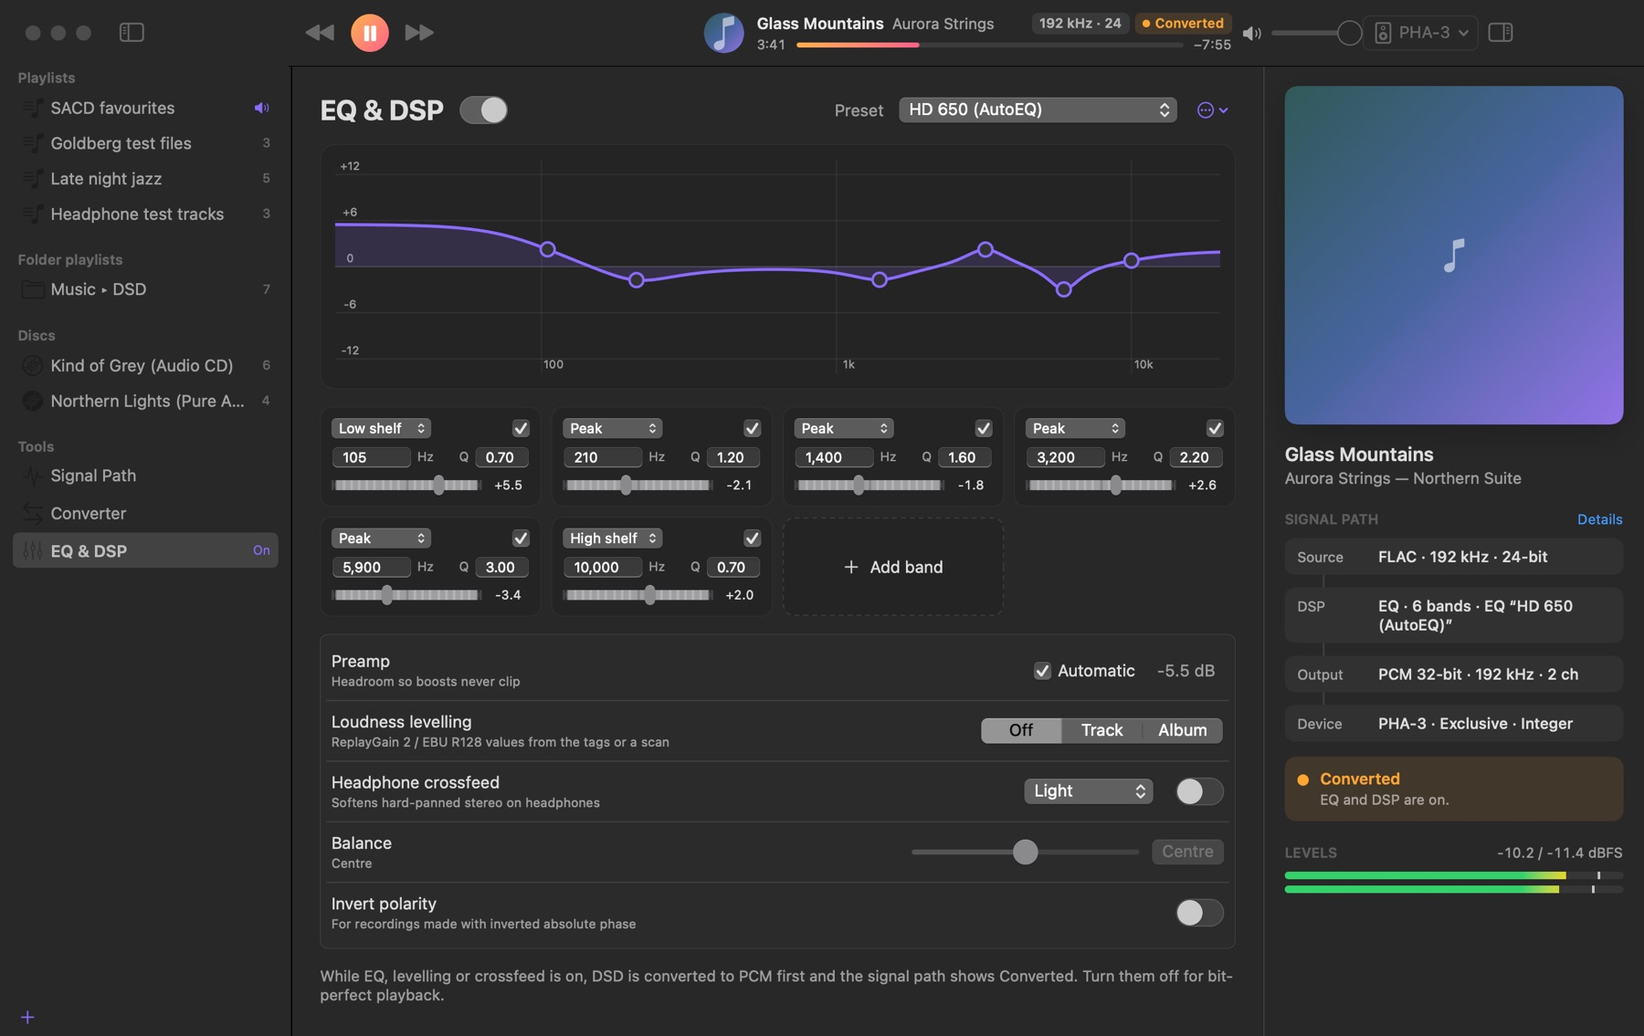
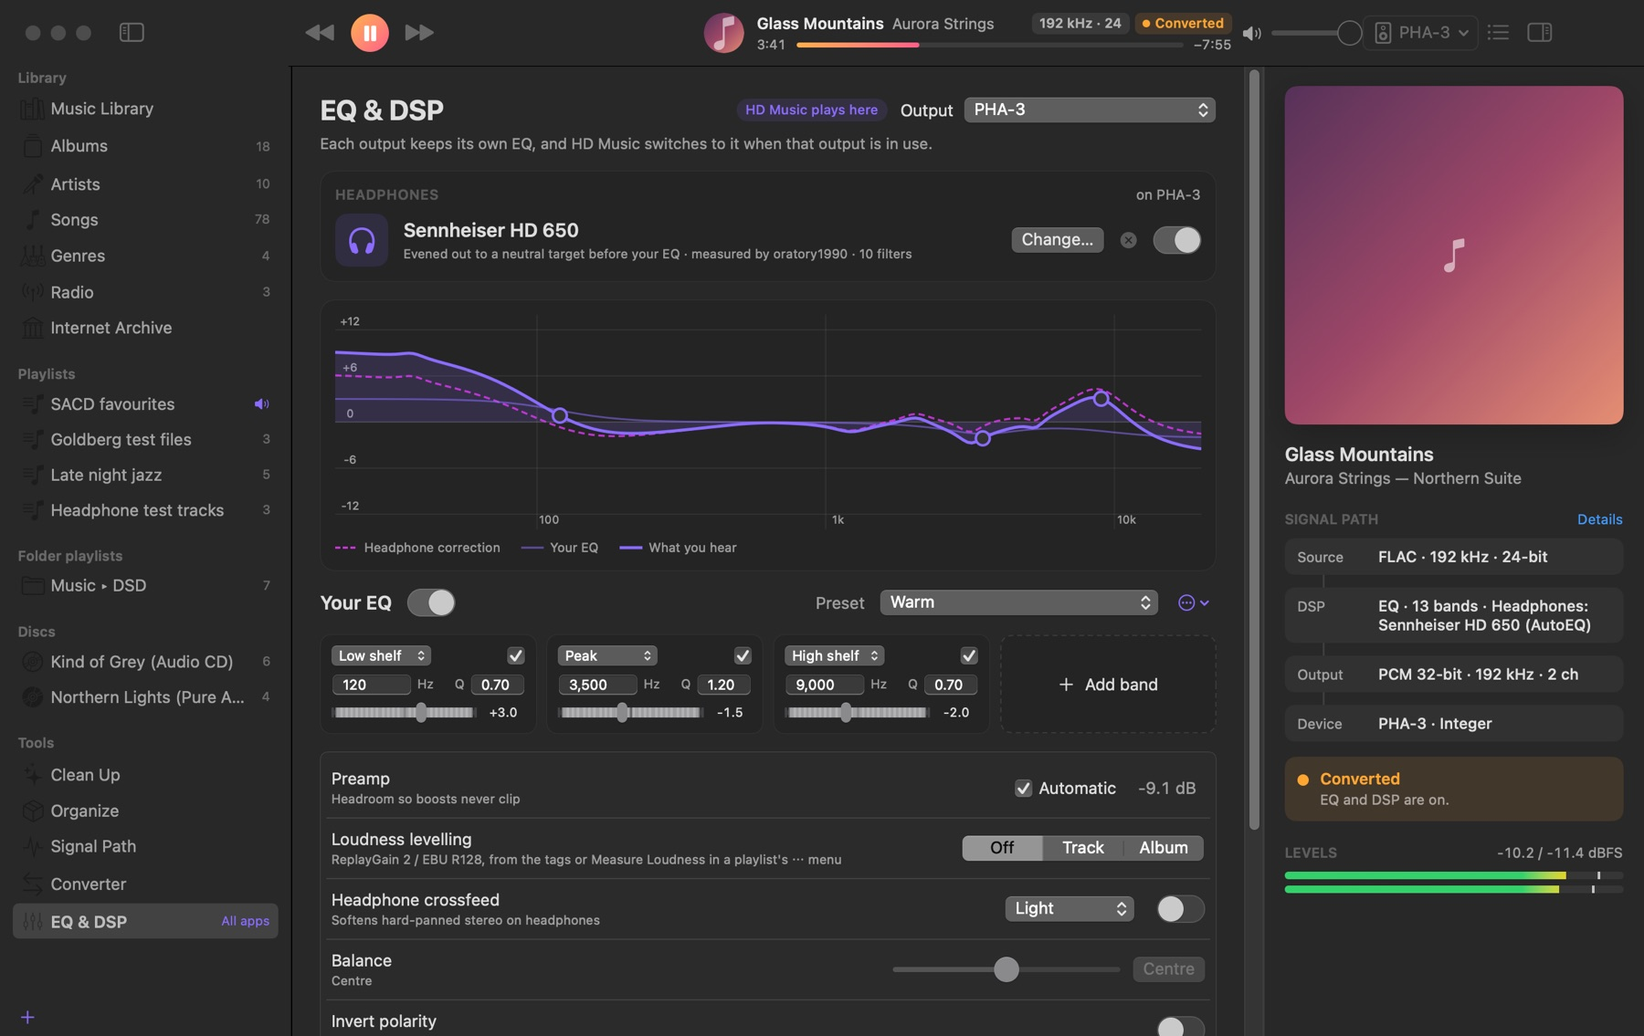
Publish HD Music 1.9.0

diff --git a/apps/hdmusic/readme.html b/apps/hdmusic/readme.html
@@ -112,7 +112,7 @@ ol.rm .n{flex:none;width:24px;height:24px;border-radius:12px;display:grid;place-
 <main class="page readme">
   <div class="rmtop"><a class="back" href="./">&#8249; HD Music</a><a href="../../readme/hdmusic.txt">Plain text</a></div>
   <header class="rmhead"><img class="icon" src="../../icons/hdmusic.png" alt="" width="64" height="64">
-    <div><h1>Read Me</h1><p>HD Music 1.8.2 · how to install and use it</p></div>
+    <div><h1>Read Me</h1><p>HD Music 1.9.0 · how to install and use it</p></div>
   </header>
   <p class="lead">HD Music is a music player for DSD and hi-res audio. It plays DSF, DFF (including DST-compressed), SACD ISO images, Blu-ray audio, audio CDs and every common PCM format, and shows you exactly what reaches your DAC. It keeps a library of your music wherever it is (Mac, external drives, a NAS), and can tidy a whole collection into a new home.</p>
 <h2>What's in this folder</h2>
@@ -125,7 +125,7 @@ ol.rm .n{flex:none;width:24px;height:24px;border-radius:12px;display:grid;place-
 <h2>Using HD Music</h2>
 <ul class="rm"><li><b>Library:</b> Albums, Artists, Songs and Genres at the top of the sidebar (⌘1 to ⌘4). Add the folders, drives or network shares that hold your music (File ▸ Add Music Folder…, or Settings ▸ Library). HD Music reads them once, then only what changes. Albums on a drive that's unplugged stay listed, greyed out, until you connect it again. <b>Connect to Server…</b> finds a NAS or another Mac on your network; macOS asks for the password and keeps it in your Keychain.</li><li><b>Radio (⌘5):</b> thousands of stations on a world map. Click a place to hear what's on there, or search by name, country or genre. Star the ones you like. Radio plays through HD Music's own output, so your DAC, EQ and Signal Path all apply, and the song title shows when the station sends it. Stations come from the free Radio Browser directory.</li><li><b>Internet Archive (⌘6):</b> search the Archive's free music, from the Live Music Archive's concerts to 78 rpm records and netlabels. Play any item straight away: it downloads as it plays, through your DAC, EQ and Signal Path. Star items as favourites; Recently Played keeps the rest. <b>Save to Library</b> keeps a tagged, lossless copy with its notes in Music ▸ HD Music Archive (or a folder you choose in Settings ▸ Library). If your connection is slow, Settings ▸ Library ▸ Internet Archive playback can play the Archive's smaller MP3s instead; Automatic picks whichever your downloads keep up with.</li><li><b>Remove from Library:</b> right-click an album, artist, song or genre ▸ Remove from Library… It disappears from the library but its files stay exactly where they are. Settings ▸ Library ▸ Removed Items brings any of it back.</li><li><b>Clean Up (sidebar ▸ Tools):</b> tidies folders where they are. Like Organize, it identifies albums (MusicBrainz) and you review them; then it fixes the tags, renames the files and sorts them into tidy folders inside the folder you chose, and removes folders left empty. Every change is recorded first, so <b>Undo Clean Up</b> puts everything back. You can also have it copy the cleaned-up music to a NAS or another drive afterwards.</li><li><b>Play Next and Add to Queue:</b> right-click any album or song. The list button at the top right shows what's coming up.</li><li><b>Get Info (right-click ▸ Get Info…):</b> edit the tags of one track or many at once, including the cover (drop an image on it). Changes are saved into the files themselves (MP3, FLAC, DSF, DFF, AIFF, WAV, M4A, WavPack, APE); only the tags change, never the audio.</li><li><b>Organize (sidebar ▸ Tools):</b> tidies a whole collection into a new place, such as a NAS or a new drive, leaving the originals untouched.</li></ul>
 <ol class="rm"><li><span class="n">1</span><div><p>Sources: the folders and drives your music is on now, and where it should go, and how files should be named.</p></div></li><li><span class="n">2</span><div><p>Review: HD Music groups files into albums, fills gaps from file and folder names, and identifies albums on MusicBrainz (about two seconds an album; it carries on after a quit). Check the ones marked <b>Needs a look</b>; duplicates in lower quality are left out.</p></div></li><li><span class="n">3</span><div><p>Copy: every file is copied, checked against its original, renamed, and given its fixed tags. Covers, booklets and rip logs come along, and a report lists everything. Your original files are never changed.</p></div></li></ol>
-<ul class="rm"><li><b>Mini Player (Window ▸ Mini Player, ⌥⌘M):</b> a small window that stays on top. Controls in the menu bar: Window ▸ Controls in Menu Bar.</li><li><b>Playlists:</b> drag music files or folders onto a playlist (left sidebar). + at the bottom of the sidebar makes a new playlist, or a folder playlist that follows a folder on your disk and updates by itself. Double-click a track to play it. Right-click for Play Next, Get Info, Show in Finder, Convert and Remove. CUE sheets split single-file albums into tracks. File ▸ Add Files… (⌘O) works too.</li><li><b>Discs:</b> an audio CD in a USB drive appears under Discs with its track names and cover (looked up on MusicBrainz; you can turn that off in Settings ▸ General). SACD ISO images and Blu-ray folders or ISOs open like files. Copy-protected Blu-ray discs can't be played: HD Music never breaks copy protection.</li><li><b>Output:</b> choose your DAC from the menu at the top right. Settings ▸ Output (⌘,) has the options for each device. DSD playback: DoP sends DSD to the DAC untouched; Convert to PCM is for speakers, headphones and AirPods. You can also set exclusive access, the sample rate, volume, and how 5.1/7.1 is played (stereo downmix, headphones binaural, or one channel per speaker). Exclusive access is off, so your Mac's own sound stays on the DAC. Turn it on to keep other apps' sound out; macOS then moves its own sound to another output while HD Music plays.</li><li><b>DSD and volume:</b> DSD reaches the DAC untouched only while the Mac's volume for the DAC is at full. Turn it all the way up and use the DAC's own knob for pure DSD. If you turn the Mac's volume down, HD Music switches to a high-quality PCM conversion so the volume keys still work, and goes back to pure DSD at full volume.</li><li><b>Adding music:</b> click Music Library at the top of the sidebar, then drop folders or music files on it (or on Albums, Artists, Songs or Genres), or use Add Folder… and Add Files…. Folders stay where they are and are watched for changes. Loose files are copied into your Music folder, in <b>HD Music</b>.</li><li><b>Check your DAC:</b> Settings ▸ Output ▸ <b>Check This DAC…</b> plays a quiet tone at every sample rate, then a DSD tone over DoP at each DSD rate and asks what you heard. HD Music then knows exactly what your DAC takes. Turn the volume down first.</li><li><b>Speakers:</b> Settings ▸ Output has a test tone for each speaker. For a 5.1/7.1 receiver you can also choose which output each speaker is on.</li><li><b>Signal Path (sidebar ▸ Tools, or ⌥⌘1):</b> shows every step from the file to your DAC and tells you whether it's Bit-perfect, DSD untouched (DoP), or Converted, and why. With a level meter and spectrum.</li><li><b>EQ &amp; DSP (⌥⌘3):</b> a parametric EQ with presets (import AutoEQ files for your headphones), loudness levelling (ReplayGain), headphone crossfeed, balance. Turn it off for bit-perfect playback. To level files that have no ReplayGain tags, use a playlist's ⋯ menu ▸ Measure Loudness.</li><li><b>Converter (⌥⌘2):</b> DSD to FLAC, ALAC or WAV; SACD ISO or DST to plain DSF; PCM to another rate or format. Drop files on it, or right-click tracks ▸ Convert. CD tracks are read twice and compared, and a <b>Rip log.txt</b> says whether every track verified.</li><li><b>Watchdog:</b> if another app changes your DAC's sample rate while you listen, HD Music tells you and puts it back.</li><li><b>Keys:</b> Space plays and pauses, ⌘← and ⌘→ skip, ⌥⌘← and ⌥⌘→ jump 10 seconds. Media keys and Now Playing work too.</li><li><b>Online:</b> HD Music goes online only to look up audio CDs, to identify albums and fetch covers in Organize (MusicBrainz and the Cover Art Archive), for Radio (the Radio Browser directory and the stations themselves), and for the Internet Archive section (archive.org). The first time you connect to a server, macOS asks whether HD Music may look for devices on your local network.</li></ul>
+<ul class="rm"><li><b>Mini Player (Window ▸ Mini Player, ⌥⌘M):</b> a small window that stays on top. Controls in the menu bar: Window ▸ Controls in Menu Bar.</li><li><b>Playlists:</b> drag music files or folders onto a playlist (left sidebar). + at the bottom of the sidebar makes a new playlist, or a folder playlist that follows a folder on your disk and updates by itself. Double-click a track to play it. Right-click for Play Next, Get Info, Show in Finder, Convert and Remove. CUE sheets split single-file albums into tracks. File ▸ Add Files… (⌘O) works too.</li><li><b>Discs:</b> an audio CD in a USB drive appears under Discs with its track names and cover (looked up on MusicBrainz; you can turn that off in Settings ▸ General). SACD ISO images and Blu-ray folders or ISOs open like files. Copy-protected Blu-ray discs can't be played: HD Music never breaks copy protection.</li><li><b>Output:</b> choose your DAC from the menu at the top right. Settings ▸ Output (⌘,) has the options for each device. DSD playback: DoP sends DSD to the DAC untouched; Convert to PCM is for speakers, headphones and AirPods. You can also set exclusive access, the sample rate, volume, and how 5.1/7.1 is played (stereo downmix, headphones binaural, or one channel per speaker). Exclusive access is off, so your Mac's own sound stays on the DAC. Turn it on to keep other apps' sound out; macOS then moves its own sound to another output while HD Music plays.</li><li><b>DSD and volume:</b> DSD reaches the DAC untouched only while the Mac's volume for the DAC is at full. Turn it all the way up and use the DAC's own knob for pure DSD. If you turn the Mac's volume down, HD Music switches to a high-quality PCM conversion so the volume keys still work, and goes back to pure DSD at full volume.</li><li><b>Adding music:</b> click Music Library at the top of the sidebar, then drop folders or music files on it (or on Albums, Artists, Songs or Genres), or use Add Folder… and Add Files…. Folders stay where they are and are watched for changes. Loose files are copied into your Music folder, in <b>HD Music</b>.</li><li><b>Check your DAC:</b> Settings ▸ Output ▸ <b>Check This DAC…</b> plays a quiet tone at every sample rate, then a DSD tone over DoP at each DSD rate and asks what you heard. HD Music then knows exactly what your DAC takes. Turn the volume down first.</li><li><b>Speakers:</b> Settings ▸ Output has a test tone for each speaker. For a 5.1/7.1 receiver you can also choose which output each speaker is on.</li><li><b>Signal Path (sidebar ▸ Tools, or ⌥⌘1):</b> shows every step from the file to your DAC and tells you whether it's Bit-perfect, DSD untouched (DoP), or Converted, and why. With a level meter and spectrum.</li><li><b>EQ &amp; DSP (⌥⌘3):</b> pick your headphones (Choose Headphones…) and HD Music evens out their sound, using AutoEQ's measurements of thousands of headphones. Your own parametric EQ and presets go on top. Each output (your DAC, the Mac's speakers, AirPods…) keeps its own EQ. Also loudness levelling (ReplayGain), headphone crossfeed, balance. Turn it all off for bit-perfect playback. To level files that have no ReplayGain tags, use a playlist's ⋯ menu ▸ Measure Loudness.</li><li>EQ for all Mac sound (EQ &amp; DSP ▸ Every app, or the menu-bar controls): while HD Music is open, Spotify, YouTube, Apple Music and every other app go through the EQ of the output they play on. Needs macOS 14.2 or later. macOS asks once whether HD Music may hear other apps; say Allow. After each HD Music update macOS asks again.</li><li><b>Converter (⌥⌘2):</b> DSD to FLAC, ALAC or WAV; SACD ISO or DST to plain DSF; PCM to another rate or format. Drop files on it, or right-click tracks ▸ Convert. CD tracks are read twice and compared, and a <b>Rip log.txt</b> says whether every track verified.</li><li><b>Watchdog:</b> if another app changes your DAC's sample rate while you listen, HD Music tells you and puts it back.</li><li><b>Keys:</b> Space plays and pauses, ⌘← and ⌘→ skip, ⌥⌘← and ⌥⌘→ jump 10 seconds. Media keys and Now Playing work too.</li><li><b>Online:</b> HD Music goes online only to look up audio CDs, to identify albums and fetch covers in Organize (MusicBrainz and the Cover Art Archive), for Radio (the Radio Browser directory and the stations themselves), and for the Internet Archive section (archive.org). The first time you connect to a server, macOS asks whether HD Music may look for devices on your local network.</li></ul>
 <h2>Good to know</h2>
 <ul class="rm"><li><b>For a Sony PHA-3 or another USB DAC:</b> set DSD playback to DoP. DSD64 and DSD128 then reach the DAC untouched. Higher rates are converted to the best PCM rate the DAC takes.</li><li>Dolby Atmos and DTS:X play their full lossless 7.1 bed. Rendering the height objects needs Dolby's and DTS's own software, which isn't available to open-source players.</li><li><b>To update:</b> unzip a newer copy and run its installer. It replaces the old one and keeps your settings and playlists.</li><li><b>To uninstall:</b> quit HD Music and drag it from Applications to the Trash. Your playlists and library catalogue are in ~/Library/Application Support/HD Music.</li><li>HD Music is free and open source (MIT). It includes FFmpeg, libbluray and dsd-nexus under the LGPL; their licences and source are inside the app (Contents/Resources/Licenses). It is an open-source alternative to Sony's Hi-Res Audio Player and is not affiliated with Sony. It isn't from the App Store and isn't notarized by Apple, which is why macOS asks you to confirm it the first time.</li></ul>
 

diff --git a/apps/hdmusic/index.html b/apps/hdmusic/index.html
@@ -4,9 +4,9 @@
 <meta charset="utf-8">
 <meta name="viewport" content="width=device-width, initial-scale=1">
 <title>HD Music · ExplAIn Sims · Mac apps</title>
-<meta name="description" content="Plays DSF, DFF, SACD ISOs, Blu-ray audio and hi-res files bit-perfect, with a signal path, EQ and converter, a library for local drives and NAS shares, internet radio and the Internet Archive.">
+<meta name="description" content="Plays DSF, DFF, SACD ISOs, Blu-ray audio and hi-res files bit-perfect, with a signal path and converter, an EQ that corrects your headphones (from AutoEQ's measurements) and can work on every app's sound, a library for local drives and NAS shares, internet radio and the Internet Archive.">
 <meta property="og:title" content="HD Music · ExplAIn Sims · Mac apps">
-<meta property="og:description" content="Plays DSF, DFF, SACD ISOs, Blu-ray audio and hi-res files bit-perfect, with a signal path, EQ and converter, a library for local drives and NAS shares, internet radio and the Internet Archive.">
+<meta property="og:description" content="Plays DSF, DFF, SACD ISOs, Blu-ray audio and hi-res files bit-perfect, with a signal path and converter, an EQ that corrects your headphones (from AutoEQ's measurements) and can work on every app's sound, a library for local drives and NAS shares, internet radio and the Internet Archive.">
 <meta property="og:url" content="https://store.explainsims.com/apps/hdmusic/">
 <meta property="og:type" content="website">
 <meta property="og:image" content="https://store.explainsims.com/shots/hdmusic/1-light.jpg">
@@ -113,17 +113,17 @@ ol.rm .n{flex:none;width:24px;height:24px;border-radius:12px;display:grid;place-
   <a class="back" href="../../#apps">&#8249; All apps</a>
   <header class="apphead"><img class="icon" src="../../icons/hdmusic.png" alt="" width="128" height="128">
     <div><h1>HD Music</h1>
-    <p class="sum">Plays DSF, DFF, SACD ISOs, Blu-ray audio and hi-res files bit-perfect, with a signal path, EQ and converter, a library for local drives and NAS shares, internet radio and the Internet Archive.</p>
+    <p class="sum">Plays DSF, DFF, SACD ISOs, Blu-ray audio and hi-res files bit-perfect, with a signal path and converter, an EQ that corrects your headphones (from AutoEQ's measurements) and can work on every app's sound, a library for local drives and NAS shares, internet radio and the Internet Archive.</p>
     <p class="alt">An alternative to Sony's Hi-Res Audio Player.</p>
-    <div class="acts"><a class="btn primary big" href="https://github.com/explainsims/store/releases/download/hdmusic-1.8.2/HD-Music-1.8.2.zip">Download</a><small>1.8.2 · 26.4 MB · free</small><a href="#feedback"><svg width="14" height="14" viewBox="0 0 15 15" fill="none" stroke="currentColor" stroke-width="1.4" stroke-linejoin="round" aria-hidden="true"><path d="M2.2 3.6c0-.9.7-1.6 1.6-1.6h7.4c.9 0 1.6.7 1.6 1.6v5.2c0 .9-.7 1.6-1.6 1.6H6.4L3.6 12.8v-2.4c-.8 0-1.4-.7-1.4-1.6z"/></svg>Send Feedback</a></div>
+    <div class="acts"><a class="btn primary big" href="https://github.com/explainsims/store/releases/download/hdmusic-1.9.0/HD-Music-1.9.0.zip">Download</a><small>1.9.0 · 26.8 MB · free</small><a href="#feedback"><svg width="14" height="14" viewBox="0 0 15 15" fill="none" stroke="currentColor" stroke-width="1.4" stroke-linejoin="round" aria-hidden="true"><path d="M2.2 3.6c0-.9.7-1.6 1.6-1.6h7.4c.9 0 1.6.7 1.6 1.6v5.2c0 .9-.7 1.6-1.6 1.6H6.4L3.6 12.8v-2.4c-.8 0-1.4-.7-1.4-1.6z"/></svg>Send Feedback</a></div>
     <p class="tip">Or get <a href="../../apps/storefront/">Storefront</a>: it installs HD Music in one click, skips the Open Anyway step, and keeps it up to date.</p></div>
   </header>
   <section class="facts" aria-label="Facts">
-    <div><small>Version</small><b>1.8.2</b><i>latest</i></div>
-    <div><small>Size</small><b>26.4 MB</b><i>download</i></div>
+    <div><small>Version</small><b>1.9.0</b><i>latest</i></div>
+    <div><small>Size</small><b>26.8 MB</b><i>download</i></div>
     <div><small>Needs</small><b>macOS 14</b><i>or later</i></div>
     <div><small>Chip</small><b>Any Mac</b><i>Apple silicon and Intel</i></div>
-    <div><small>Updated</small><b>9 Nov</b><i>2026</i></div>
+    <div><small>Updated</small><b>11 Nov</b><i>2026</i></div>
   </section>
   <section class="shots">
   <div class="sh"><h2>Screenshots</h2><div class="seg" role="group" aria-label="Appearance"><button type="button" data-mode="light" aria-pressed="true">Light</button><button type="button" data-mode="dark" aria-pressed="false">Dark</button></div></div>
@@ -131,7 +131,7 @@ ol.rm .n{flex:none;width:24px;height:24px;border-radius:12px;display:grid;place-
 </section>
 <dialog class="lightbox" aria-label="Screenshot"><img alt=""><button type="button" class="lb prev" aria-label="Previous">&#8249;</button><button type="button" class="lb next" aria-label="Next">&#8250;</button><button type="button" class="lb x" aria-label="Close">&times;</button></dialog>
   <section class="cols">
-    <div><h2>What's new in 1.8.2</h2><ul><li>Check for Updates… in the HD Music menu. From now on HD Music updates itself, checking once a day.</li></ul></div>
+    <div><h2>What's new in 1.9.0</h2><p class="alt">Released 11 November 2026.</p></div>
     <div><h2>Good to know</h2><dl class="kv"><dt>Internet</dt><dd>Only for radio, MusicBrainz and the Internet Archive</dd><dt>Licence</dt><dd>MIT, with LGPL libraries (FFmpeg, libbluray, dsd-nexus) · <a href="https://github.com/explainsims/store/releases/download/hdmusic-library-sources/HD-Music-library-sources.tar.gz">Library sources</a></dd><dt>Read Me</dt><dd><a href="readme.html">How to use HD Music</a></dd><dt>First open</dt><dd>macOS asks you to allow it once, under System Settings › Privacy &amp; Security › Open Anyway. Apps installed through Storefront skip that.</dd></dl></div>
   </section>
   <section class="fbcard" id="feedback"><div class="fbtop"><h2>Send feedback about HD Music</h2><span class="priv"><svg width="12" height="12" viewBox="0 0 12 12" fill="none" stroke="currentColor" stroke-width="1.5" aria-hidden="true"><rect x="2" y="5.2" width="8" height="5.6" rx="1.4"/><path d="M3.8 5.2V3.8a2.2 2.2 0 0 1 4.4 0v1.4"/></svg>Private and anonymous</span></div>

diff --git a/index.html b/index.html
@@ -140,9 +140,9 @@ ol.rm .n{flex:none;width:24px;height:24px;border-radius:12px;display:grid;place-
 <article class="app" id="freeup" data-kind="tools" data-text="freeup see what fills your disk, on a sunburst map. scans a disk or folder and draws it as rings. click to go in, drag what you don't need to be deleted, and see the space come back. daisydisk tools"><img class="icon" src="icons/freeup.png" alt="" width="64" height="64" loading="lazy">
   <div class="t"><h3><a class="cover" href="apps/freeup/">FreeUp</a></h3><p class="tag">See what fills your disk, on a sunburst map.</p><small>2.1.1 · 3.3 MB</small></div>
   <a class="btn get" href="https://github.com/explainsims/store/releases/download/freeup-2.1.1/FreeUp-2.1.1.zip" aria-label="Download FreeUp">Download</a></article>
-<article class="app" id="hdmusic" data-kind="music" data-text="hd music hi-res and dsd player, with a library, radio and eq. plays dsf, dff, sacd isos, blu-ray audio and hi-res files bit-perfect, with a signal path, eq and converter, a library for local drives and nas shares, internet radio and the internet archive. sony's hi-res audio player music"><img class="icon" src="icons/hdmusic.png" alt="" width="64" height="64" loading="lazy">
-  <div class="t"><h3><a class="cover" href="apps/hdmusic/">HD Music</a></h3><p class="tag">Hi-res and DSD player, with a library, radio and EQ.</p><small>1.8.2 · 26.4 MB</small></div>
-  <a class="btn get" href="https://github.com/explainsims/store/releases/download/hdmusic-1.8.2/HD-Music-1.8.2.zip" aria-label="Download HD Music">Download</a></article>
+<article class="app" id="hdmusic" data-kind="music" data-text="hd music hi-res and dsd player, with a library, radio and eq. plays dsf, dff, sacd isos, blu-ray audio and hi-res files bit-perfect, with a signal path and converter, an eq that corrects your headphones (from autoeq's measurements) and can work on every app's sound, a library for local drives and nas shares, internet radio and the internet archive. sony's hi-res audio player music"><img class="icon" src="icons/hdmusic.png" alt="" width="64" height="64" loading="lazy">
+  <div class="t"><h3><a class="cover" href="apps/hdmusic/">HD Music</a></h3><p class="tag">Hi-res and DSD player, with a library, radio and EQ.</p><small>1.9.0 · 26.8 MB</small></div>
+  <a class="btn get" href="https://github.com/explainsims/store/releases/download/hdmusic-1.9.0/HD-Music-1.9.0.zip" aria-label="Download HD Music">Download</a></article>
 <article class="app" id="hem" data-kind="menubar" data-text="hem volume and brightness sliders on your trackpad's edges. slide along an edge of the trackpad to change the volume, the screen or keyboard brightness, or scrub what's playing. tap then slide for a second action. volumepad menu bar"><img class="icon" src="icons/hem.png" alt="" width="64" height="64" loading="lazy">
   <div class="t"><h3><a class="cover" href="apps/hem/">Hem</a></h3><p class="tag">Volume and brightness sliders on your trackpad's edges.</p><small>1.0.1 · 2.3 MB</small></div>
   <a class="btn get" href="https://github.com/explainsims/store/releases/download/hem-1.0.1/Hem-1.0.1.zip" aria-label="Download Hem">Download</a></article>
